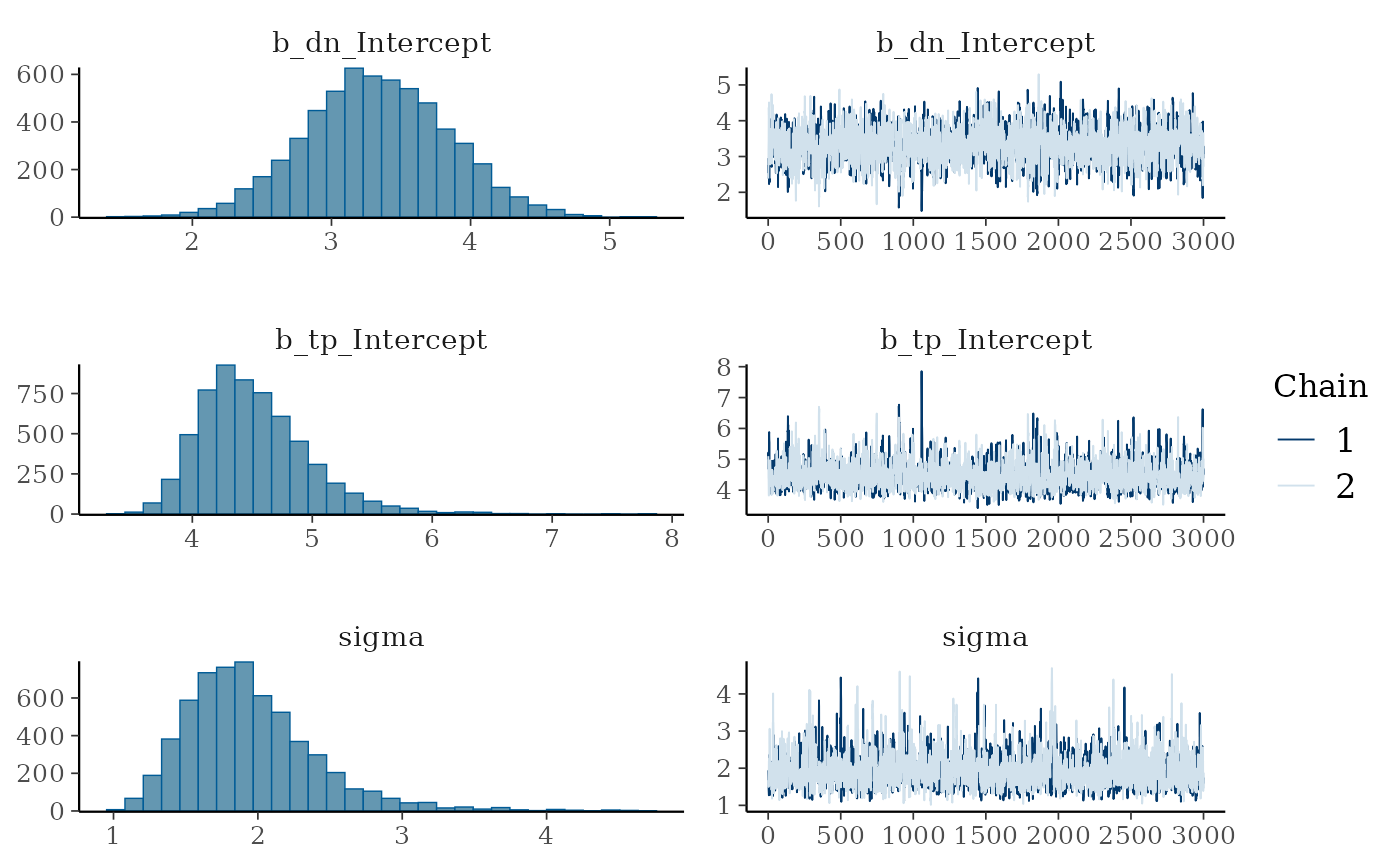
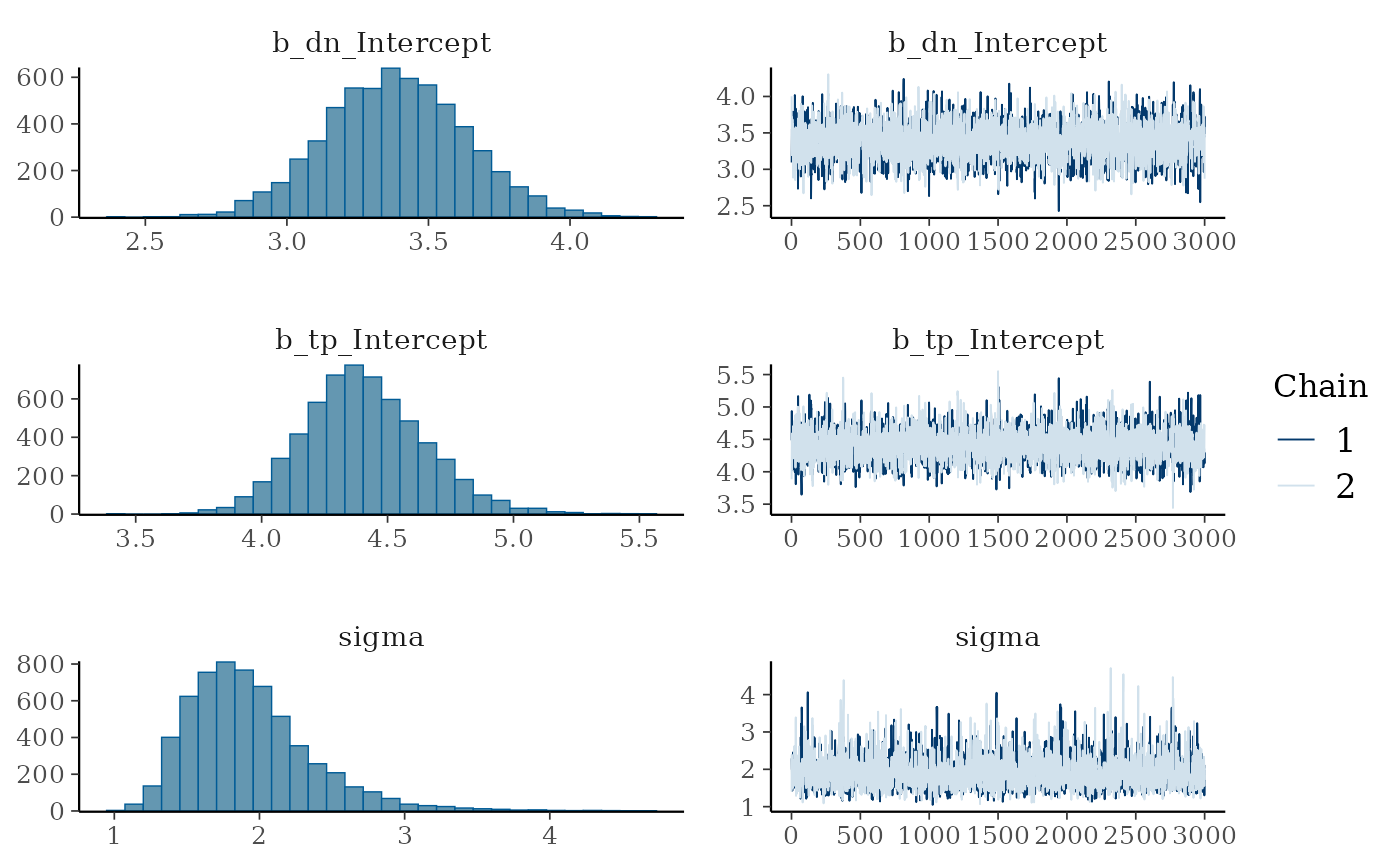
Deploying to gh-pages from @ benjaminhlina/trps@e05a43e69da83d00ae349368910382cfba2016d7 🚀

diff --git a/articles/Estimate_trophic_position_one_source_model.html b/articles/Estimate_trophic_position_one_source_model.html
@@ -288,6 +288,9 @@ names <code>d15n</code>, <code>n1</code>, and <code>l1</code>.</p>
 of Lake Ontario.</p>
 <p>There are a few things to know about running a Bayesian analysis, I
 suggest reading a these resources.</p>
+<div class="section level3">
+<h3 id="priors">Priors<a class="anchor" aria-label="anchor" href="#priors"></a>
+</h3>
 <p>Bayesian analyses rely on supplying uninformed or informed prior
 distributions for each parameter (coefficient; predictor) in the model.
 The default informed priors for a one source model are the following,
@@ -306,6 +309,10 @@ assumes a uniform distribution (<code>lb = 0</code> and .
 <math display="inline" xmlns="http://www.w3.org/1998/Math/MathML"><semantics><mrow><mi>σ</mi><mo>=</mo><mn>1</mn></mrow><annotation encoding="application/x-tex">\sigma = 1</annotation></semantics></math>),
 we can set the argument <code>bp</code> to <code>TRUE</code> in all
 <code>one_source_</code> functions.</p>
+</div>
+<div class="section level3">
+<h3 id="model-convergence">Model convergence<a class="anchor" aria-label="anchor" href="#model-convergence"></a>
+</h3>
 <p>Some important things to pay attention to are always run at least 2
 chains, if the model does not converge you can try to adjust the amount
 of samples that are burned-in (discarded; in brms this can be controlled
@@ -313,10 +320,11 @@ by the argument <code>warmup</code>), adjust the number of iterative
 samples retained (in brms this can be controlled by the argument
 <code>iter</code>), and/or adjust the <code>adapt_delta</code> value
 using <code>control = list(adapt_delta = 0.95)</code>.</p>
-<p>When assessing the model we want rhat to be 1 or within 0.05 of 1, we
-also want a high value for effective sample size (ESS), we want trace
+<p>When assessing the model we want R-hat to be 1 or within 0.05 of 1,
+we also want a high value for effective sample size (ESS), we want trace
 plots to look “grassy” or “catapillery”, and we want posterior
 distributions to look relatively normal.</p>
+</div>
 </div>
 <div class="section level2">
 <h2 id="estimating-trophic-position">Estimating trophic position<a class="anchor" aria-label="anchor" href="#estimating-trophic-position"></a>
@@ -336,6 +344,9 @@ or upper and lower bounds (<code>lb</code> and <code>ub</code>) for each
 prior of the model within <code>one_soruce_priors_params()</code>,
 however, only adjust priors if you have a good grasp of Bayesian
 frameworks and your study system and species.</p>
+<div class="section level3">
+<h3 id="model">Model<a class="anchor" aria-label="anchor" href="#model"></a>
+</h3>
 <p>Let’s run the model!</p>
 <div class="sourceCode" id="cb8"><pre class="downlit sourceCode r">
 <code class="sourceCode R"><span><span class="va">m</span> <span class="op">&lt;-</span> <span class="fu"><a href="https://paulbuerkner.com/brms/reference/brm.html" class="external-link">brm</a></span><span class="op">(</span></span>
@@ -354,6 +365,10 @@ frameworks and your study system and species.</p>
 <span><span class="co">#&gt; Warning: Rows containing NAs were excluded from the model.</span></span>
 <span><span class="co">#&gt; Compiling Stan program...</span></span>
 <span><span class="co">#&gt; Start sampling</span></span></code></pre></div>
+</div>
+<div class="section level3">
+<h3 id="model-output">Model output<a class="anchor" aria-label="anchor" href="#model-output"></a>
+</h3>
 <p>Let’s view the summary of the model.</p>
 <div class="sourceCode" id="cb9"><pre class="downlit sourceCode r">
 <code class="sourceCode R"><span><span class="va">m</span></span>
@@ -368,20 +383,144 @@ frameworks and your study system and species.</p>
 <span><span class="co">#&gt; </span></span>
 <span><span class="co">#&gt; Regression Coefficients:</span></span>
 <span><span class="co">#&gt;              Estimate Est.Error l-95% CI u-95% CI Rhat Bulk_ESS Tail_ESS</span></span>
-<span><span class="co">#&gt; dn_Intercept     3.33      0.51     2.33     4.32 1.00     1560     2091</span></span>
-<span><span class="co">#&gt; tp_Intercept     4.51      0.46     3.81     5.57 1.00     1590     2026</span></span>
+<span><span class="co">#&gt; dn_Intercept     3.38      0.25     2.90     3.87 1.00     2669     2974</span></span>
+<span><span class="co">#&gt; tp_Intercept     4.41      0.24     3.97     4.92 1.00     2584     3044</span></span>
 <span><span class="co">#&gt; </span></span>
 <span><span class="co">#&gt; Further Distributional Parameters:</span></span>
 <span><span class="co">#&gt;       Estimate Est.Error l-95% CI u-95% CI Rhat Bulk_ESS Tail_ESS</span></span>
-<span><span class="co">#&gt; sigma     1.95      0.46     1.28     3.08 1.00     2159     1631</span></span>
+<span><span class="co">#&gt; sigma     1.93      0.43     1.31     2.97 1.00     2510     2532</span></span>
 <span><span class="co">#&gt; </span></span>
 <span><span class="co">#&gt; Draws were sampled using sampling(NUTS). For each parameter, Bulk_ESS</span></span>
 <span><span class="co">#&gt; and Tail_ESS are effective sample size measures, and Rhat is the potential</span></span>
 <span><span class="co">#&gt; scale reduction factor on split chains (at convergence, Rhat = 1).</span></span></code></pre></div>
+<p>We can see that the R-hat is 1 meaning that variance among and within
+chains is equal (See <a href="https://mc-stan.org/rstan/reference/Rhat.html" class="external-link">{rstan}
+docmentation on R-hat</a>). and that ESS is quite large, with this
+overall meaning the model is converging and fitting accordingly.</p>
+</div>
+<div class="section level3">
+<h3 id="trace-plots">Trace plots<a class="anchor" aria-label="anchor" href="#trace-plots"></a>
+</h3>
 <p>Let’s view trace plots and posterior distributions for the model.</p>
 <div class="sourceCode" id="cb10"><pre class="downlit sourceCode r">
 <code class="sourceCode R"><span><span class="fu"><a href="https://rdrr.io/r/graphics/plot.default.html" class="external-link">plot</a></span><span class="op">(</span><span class="va">m</span><span class="op">)</span></span></code></pre></div>
 <p><img src="Estimate_trophic_position_one_source_model_files/figure-html/unnamed-chunk-10-1.png" width="700"></p>
+<p>We can see that the trace plots look “grassy” meaning the model is
+converging!</p>
+</div>
+</div>
+<div class="section level2">
+<h2 id="posterior-draws">Posterior draws<a class="anchor" aria-label="anchor" href="#posterior-draws"></a>
+</h2>
+<p>Let’s again look at the summary output from the model.</p>
+<div class="sourceCode" id="cb11"><pre class="downlit sourceCode r">
+<code class="sourceCode R"><span><span class="va">m</span></span>
+<span><span class="co">#&gt;  Family: gaussian </span></span>
+<span><span class="co">#&gt;   Links: mu = identity; sigma = identity </span></span>
+<span><span class="co">#&gt; Formula: d15n ~ n1 + dn * (tp - l1) </span></span>
+<span><span class="co">#&gt;          dn ~ 1</span></span>
+<span><span class="co">#&gt;          tp ~ 1</span></span>
+<span><span class="co">#&gt;    Data: combined_iso_os (Number of observations: 14) </span></span>
+<span><span class="co">#&gt;   Draws: 2 chains, each with iter = 4000; warmup = 1000; thin = 1;</span></span>
+<span><span class="co">#&gt;          total post-warmup draws = 6000</span></span>
+<span><span class="co">#&gt; </span></span>
+<span><span class="co">#&gt; Regression Coefficients:</span></span>
+<span><span class="co">#&gt;              Estimate Est.Error l-95% CI u-95% CI Rhat Bulk_ESS Tail_ESS</span></span>
+<span><span class="co">#&gt; dn_Intercept     3.38      0.25     2.90     3.87 1.00     2669     2974</span></span>
+<span><span class="co">#&gt; tp_Intercept     4.41      0.24     3.97     4.92 1.00     2584     3044</span></span>
+<span><span class="co">#&gt; </span></span>
+<span><span class="co">#&gt; Further Distributional Parameters:</span></span>
+<span><span class="co">#&gt;       Estimate Est.Error l-95% CI u-95% CI Rhat Bulk_ESS Tail_ESS</span></span>
+<span><span class="co">#&gt; sigma     1.93      0.43     1.31     2.97 1.00     2510     2532</span></span>
+<span><span class="co">#&gt; </span></span>
+<span><span class="co">#&gt; Draws were sampled using sampling(NUTS). For each parameter, Bulk_ESS</span></span>
+<span><span class="co">#&gt; and Tail_ESS are effective sample size measures, and Rhat is the potential</span></span>
+<span><span class="co">#&gt; scale reduction factor on split chains (at convergence, Rhat = 1).</span></span></code></pre></div>
+<p>We can see that
+<math display="inline" xmlns="http://www.w3.org/1998/Math/MathML"><semantics><mrow><mi>δ</mi><mi>N</mi></mrow><annotation encoding="application/x-tex">\delta N</annotation></semantics></math>
+is estimated to be <code>3.38</code> with <code>l-95% CI</code> of
+<code>2.90</code>, and <code>u-95% CI</code> of <code>3.87</code>. If we
+move down to trophic position (<code>tp</code>) we see trophic position
+is estimated to be <code>4.41</code> with <code>l-95% CI</code> of
+<code>3.97</code>, and <code>u-95% CI</code> of <code>4.92</code>.</p>
+<div class="section level3">
+<h3 id="extract-posterior-draws">Extract posterior draws<a class="anchor" aria-label="anchor" href="#extract-posterior-draws"></a>
+</h3>
+<p>We will use functions from {tidybayes} to do this work. First we will
+look at the the names of the variables we want to extract using
+<code><a href="https://mjskay.github.io/tidybayes/reference/get_variables.html" class="external-link">get_variables()</a></code>.</p>
+<div class="sourceCode" id="cb12"><pre class="downlit sourceCode r">
+<code class="sourceCode R"><span><span class="fu"><a href="https://mjskay.github.io/tidybayes/reference/get_variables.html" class="external-link">get_variables</a></span><span class="op">(</span><span class="va">m</span><span class="op">)</span></span>
+<span><span class="co">#&gt;  [1] "b_dn_Intercept" "b_tp_Intercept" "sigma"          "lprior"        </span></span>
+<span><span class="co">#&gt;  [5] "lp__"           "accept_stat__"  "stepsize__"     "treedepth__"   </span></span>
+<span><span class="co">#&gt;  [9] "n_leapfrog__"   "divergent__"    "energy__"</span></span></code></pre></div>
+<p>You will notice that <code>"b_tp_Intercept"</code> is the name of the
+variable in the model object that we are most interested in extracting.
+We then get posterior draws using <code><a href="https://mjskay.github.io/tidybayes/reference/spread_draws.html" class="external-link">gather_draws()</a></code>. I am
+going to rename <code>"b_tp_Intercept"</code> to <code>tp</code>.</p>
+<div class="sourceCode" id="cb13"><pre class="downlit sourceCode r">
+<code class="sourceCode R"><span><span class="va">post_draws</span> <span class="op">&lt;-</span> <span class="va">m</span> <span class="op"><a href="https://magrittr.tidyverse.org/reference/pipe.html" class="external-link">%&gt;%</a></span> </span>
+<span>  <span class="fu"><a href="https://mjskay.github.io/tidybayes/reference/spread_draws.html" class="external-link">gather_draws</a></span><span class="op">(</span><span class="va">b_tp_Intercept</span><span class="op">)</span> <span class="op"><a href="https://magrittr.tidyverse.org/reference/pipe.html" class="external-link">%&gt;%</a></span> </span>
+<span>  <span class="fu"><a href="https://dplyr.tidyverse.org/reference/mutate.html" class="external-link">mutate</a></span><span class="op">(</span></span>
+<span>    .variable <span class="op">=</span> <span class="st">"tp"</span></span>
+<span>  <span class="op">)</span></span></code></pre></div>
+<p>Let’s view the <code>post_draws</code></p>
+<div class="sourceCode" id="cb14"><pre class="downlit sourceCode r">
+<code class="sourceCode R"><span><span class="va">post_draws</span></span>
+<span><span class="co">#&gt; <span style="color: #949494;"># A tibble: 6,000 × 5</span></span></span>
+<span><span class="co">#&gt; <span style="color: #949494;"># Groups:   .variable [1]</span></span></span>
+<span><span class="co">#&gt;    .chain .iteration .draw .variable .value</span></span>
+<span><span class="co">#&gt;     <span style="color: #949494; font-style: italic;">&lt;int&gt;</span>      <span style="color: #949494; font-style: italic;">&lt;int&gt;</span> <span style="color: #949494; font-style: italic;">&lt;int&gt;</span> <span style="color: #949494; font-style: italic;">&lt;chr&gt;</span>      <span style="color: #949494; font-style: italic;">&lt;dbl&gt;</span></span></span>
+<span><span class="co">#&gt; <span style="color: #BCBCBC;"> 1</span>      1          1     1 tp          4.49</span></span>
+<span><span class="co">#&gt; <span style="color: #BCBCBC;"> 2</span>      1          2     2 tp          4.94</span></span>
+<span><span class="co">#&gt; <span style="color: #BCBCBC;"> 3</span>      1          3     3 tp          4.50</span></span>
+<span><span class="co">#&gt; <span style="color: #BCBCBC;"> 4</span>      1          4     4 tp          4.24</span></span>
+<span><span class="co">#&gt; <span style="color: #BCBCBC;"> 5</span>      1          5     5 tp          4.26</span></span>
+<span><span class="co">#&gt; <span style="color: #BCBCBC;"> 6</span>      1          6     6 tp          4.34</span></span>
+<span><span class="co">#&gt; <span style="color: #BCBCBC;"> 7</span>      1          7     7 tp          4.09</span></span>
+<span><span class="co">#&gt; <span style="color: #BCBCBC;"> 8</span>      1          8     8 tp          4.46</span></span>
+<span><span class="co">#&gt; <span style="color: #BCBCBC;"> 9</span>      1          9     9 tp          4.57</span></span>
+<span><span class="co">#&gt; <span style="color: #BCBCBC;">10</span>      1         10    10 tp          4.03</span></span>
+<span><span class="co">#&gt; <span style="color: #949494;"># ℹ 5,990 more rows</span></span></span></code></pre></div>
+<p>We can see that this consists of five variables <code>.chain</code>,
+<code>.itteration</code>, <code>.draw</code>, <code>.variable</code>
+(this will have different variables of interest if you supply
+<code><a href="https://mjskay.github.io/tidybayes/reference/spread_draws.html" class="external-link">gather_draws()</a></code> with more than one variable),
+<code>.value</code> (estimated value).</p>
+</div>
+</div>
+<div class="section level2">
+<h2 id="plot">Plot<a class="anchor" aria-label="anchor" href="#plot"></a>
+</h2>
+<p>Now that we have our posteriors extracted we can plot them. For
+comparing trophic position among species or groups, I like using either
+violin plots, interval points, or slab plots for posteriors. We can
+access violins through {ggplot2} with the later being available in
+{ggdist}.</p>
+<p>However, for this example we are only going to plot the distribution.
+Further below I’ll demonstrate how to run the model itteratively
+producing estimates of trophic position for more groups</p>
+<div class="sourceCode" id="cb15"><pre class="downlit sourceCode r">
+<code class="sourceCode R"><span><span class="fu"><a href="https://ggplot2.tidyverse.org/reference/ggplot.html" class="external-link">ggplot</a></span><span class="op">(</span>data <span class="op">=</span> <span class="va">post_draws</span>, <span class="fu"><a href="https://ggplot2.tidyverse.org/reference/aes.html" class="external-link">aes</a></span><span class="op">(</span>x <span class="op">=</span> <span class="va">.value</span><span class="op">)</span><span class="op">)</span> <span class="op">+</span> </span>
+<span>  <span class="fu"><a href="https://ggplot2.tidyverse.org/reference/geom_density.html" class="external-link">geom_density</a></span><span class="op">(</span><span class="op">)</span> <span class="op">+</span> </span>
+<span>  <span class="fu"><a href="https://ggplot2.tidyverse.org/reference/ggtheme.html" class="external-link">theme_bw</a></span><span class="op">(</span>base_size <span class="op">=</span> <span class="fl">15</span><span class="op">)</span> <span class="op">+</span></span>
+<span>  <span class="fu"><a href="https://ggplot2.tidyverse.org/reference/theme.html" class="external-link">theme</a></span><span class="op">(</span></span>
+<span>    panel.grid <span class="op">=</span> <span class="fu"><a href="https://ggplot2.tidyverse.org/reference/element.html" class="external-link">element_blank</a></span><span class="op">(</span><span class="op">)</span></span>
+<span>  <span class="op">)</span> <span class="op">+</span> </span>
+<span>  <span class="fu"><a href="https://ggplot2.tidyverse.org/reference/labs.html" class="external-link">labs</a></span><span class="op">(</span></span>
+<span>    x <span class="op">=</span> <span class="st">"P(Trophic Position | X)"</span>, </span>
+<span>    y <span class="op">=</span> <span class="st">"Density"</span></span>
+<span>  <span class="op">)</span></span></code></pre></div>
+<p><img src="Estimate_trophic_position_one_source_model_files/figure-html/unnamed-chunk-15-1.png" width="700"></p>
+<p>Congratulations we have estimate trophic position for Lake Trout. We
+will extend this to compare trophic position for Lake Trout among
+different regions below with some data already formatted that is in the
+package.</p>
+</div>
+<div class="section level2">
+<h2 id="estimate-trophic-position-among-species-or-groups">Estimate trophic position among species or groups<a class="anchor" aria-label="anchor" href="#estimate-trophic-position-among-species-or-groups"></a>
+</h2>
+<p>this</p>
 </div>
   </main><aside class="col-md-3"><nav id="toc" aria-label="Table of contents"><h2>On this page</h2>
     </nav></aside>

diff --git a/reference/one_source_priors_params.html b/reference/one_source_priors_params.html
@@ -75,7 +75,7 @@ baseline. Defaults to <code>1</code>.</p></dd>
 
 <dt id="arg-dn-sigma">dn_sigma<a class="anchor" aria-label="anchor" href="#arg-dn-sigma"></a></dt>
 <dd><p>variance (\(\sigma\)) for \(\delta^{15}\)N.
-Defaults to <code>0.5</code>.</p></dd>
+Defaults to <code>0.25</code>.</p></dd>
 
 
 <dt id="arg-tp-lb">tp_lb<a class="anchor" aria-label="anchor" href="#arg-tp-lb"></a></dt>
@@ -154,7 +154,7 @@ variance (\(\sigma\)). This prior assumes a uniform distribution.</p></li>
 <span class="r-out co"><span class="r-pr">#&gt;</span> [1] "dn_sigma"</span>
 <span class="r-out co"><span class="r-pr">#&gt;</span> </span>
 <span class="r-out co"><span class="r-pr">#&gt;</span> $dn_sigma$sdata</span>
-<span class="r-out co"><span class="r-pr">#&gt;</span> [1] 0.5</span>
+<span class="r-out co"><span class="r-pr">#&gt;</span> [1] 0.25</span>
 <span class="r-out co"><span class="r-pr">#&gt;</span> </span>
 <span class="r-out co"><span class="r-pr">#&gt;</span> $dn_sigma$scode</span>
 <span class="r-out co"><span class="r-pr">#&gt;</span> [1] "real dn_sigma;"</span>
